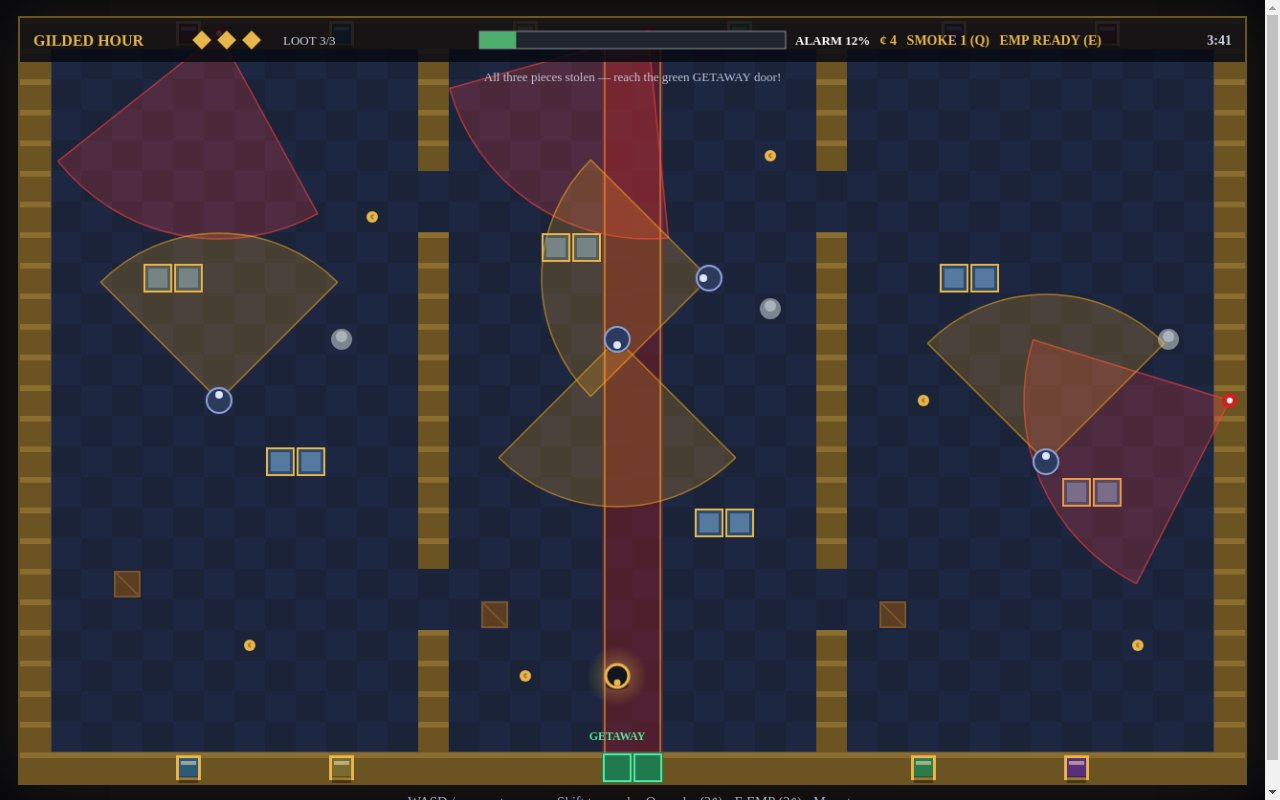
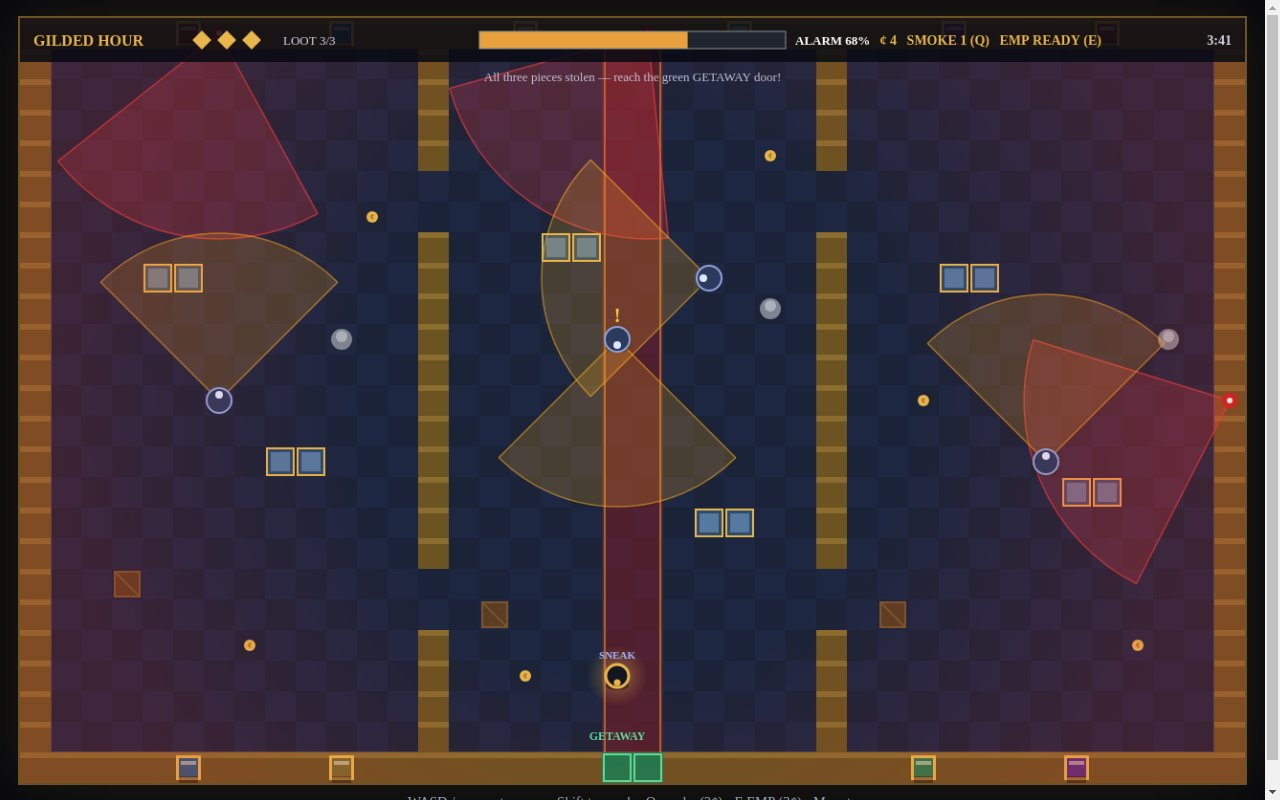
Heist fix r3: gameplay cover, dramatic near-miss, counts on title

diff --git a/game/src/main.js b/game/src/main.js
@@ -236,15 +236,18 @@ function applyScene(state, scene) {
   } else if (scene === 'getaway') {
     state.screen = 'staged';
     state.time = 221;
-    state.alarm = 12;
+    // Near-miss, not a stroll: alarm high, a warden suspicious with his
+    // cone sweeping down the carpet straight at Marlowe by the door.
+    state.alarm = 68;
     state.coins = 4;
     state.smoke = 1;
     for (const piece of state.loot) piece.taken = true;
+    state.thief.sneaking = true;
     placeThief(19, 21, Math.PI / 2);
     setGuardPose(0, 6, 12, -Math.PI / 2, false);
     setGuardPose(1, 22, 8, Math.PI, false);
     setGuardPose(2, 33, 14, -Math.PI / 2, false);
-    setGuardPose(3, 19, 10, Math.PI / 2, false);
+    setGuardPose(3, 19, 10, Math.PI / 2, true);
     setCameraPose(0, Math.PI / 2 + 0.6);
     setCameraPose(1, Math.PI - 0.4);
     setCameraPose(2, Math.PI / 2 + 0.2);

diff --git a/game/src/render.js b/game/src/render.js
@@ -397,7 +397,7 @@ function drawTitle(ctx, state) {
   ctx.fillText('Press ENTER or click to begin the heist', VIEW_W / 2, 480);
   ctx.fillStyle = '#9aa3b5';
   ctx.font = '14px Georgia, serif';
-  ctx.fillText('A complete heist in one frame: guards, cameras, loot, alarm.', VIEW_W / 2, 540);
+  ctx.fillText('4 wardens · 3 cameras · 3 relics · 6 coins · smoke + EMP.', VIEW_W / 2, 540);
   drawHud(ctx, state);
 }
 
